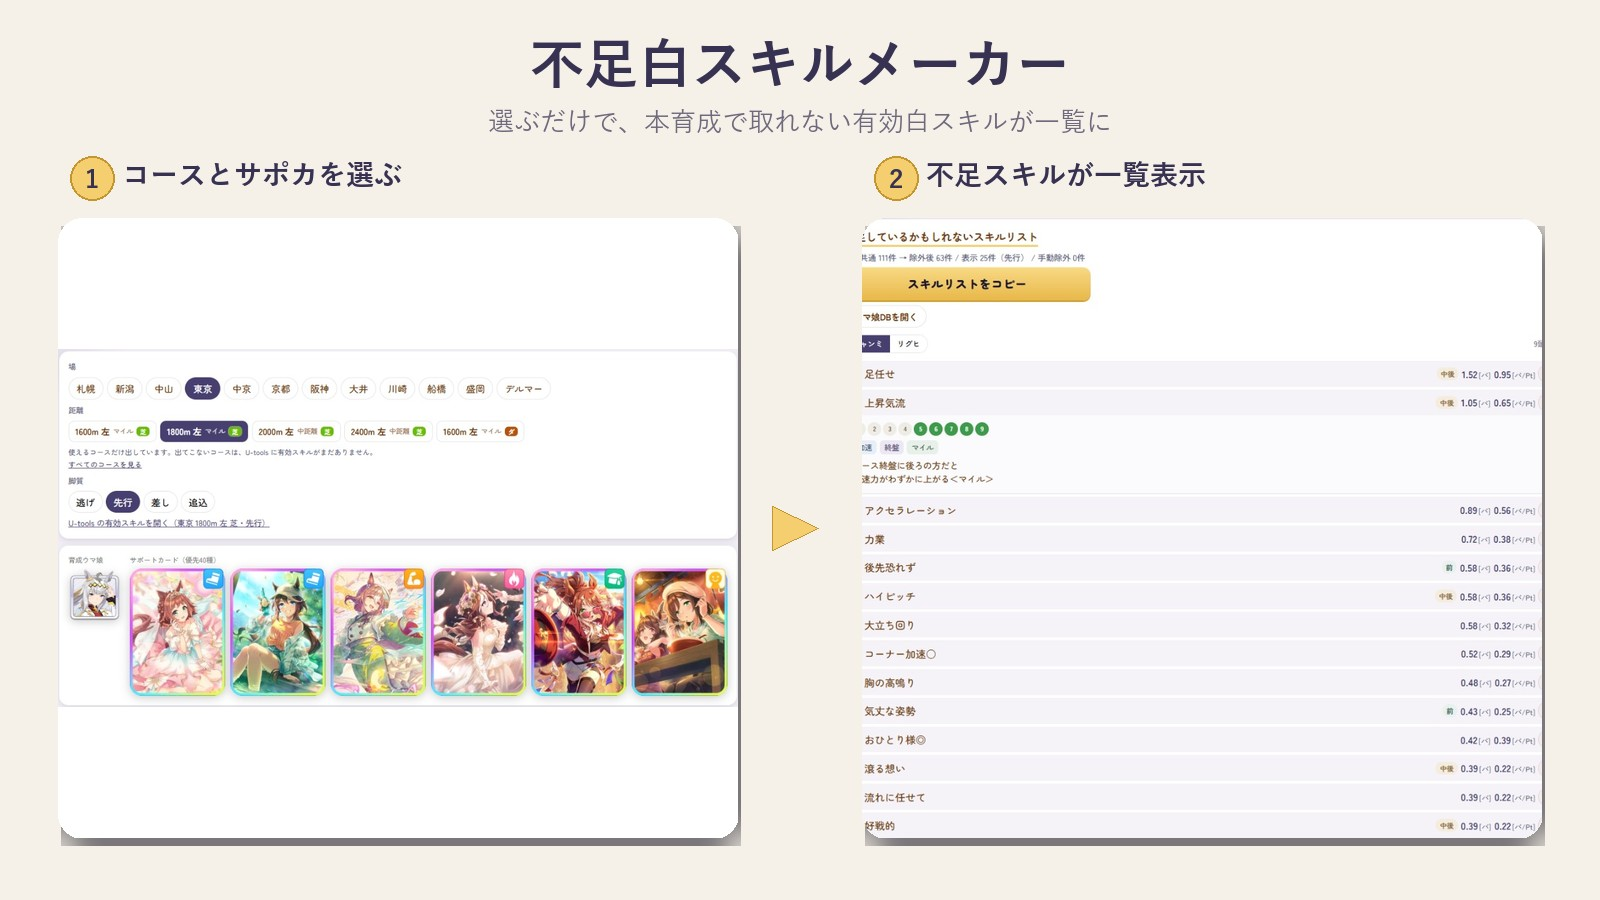
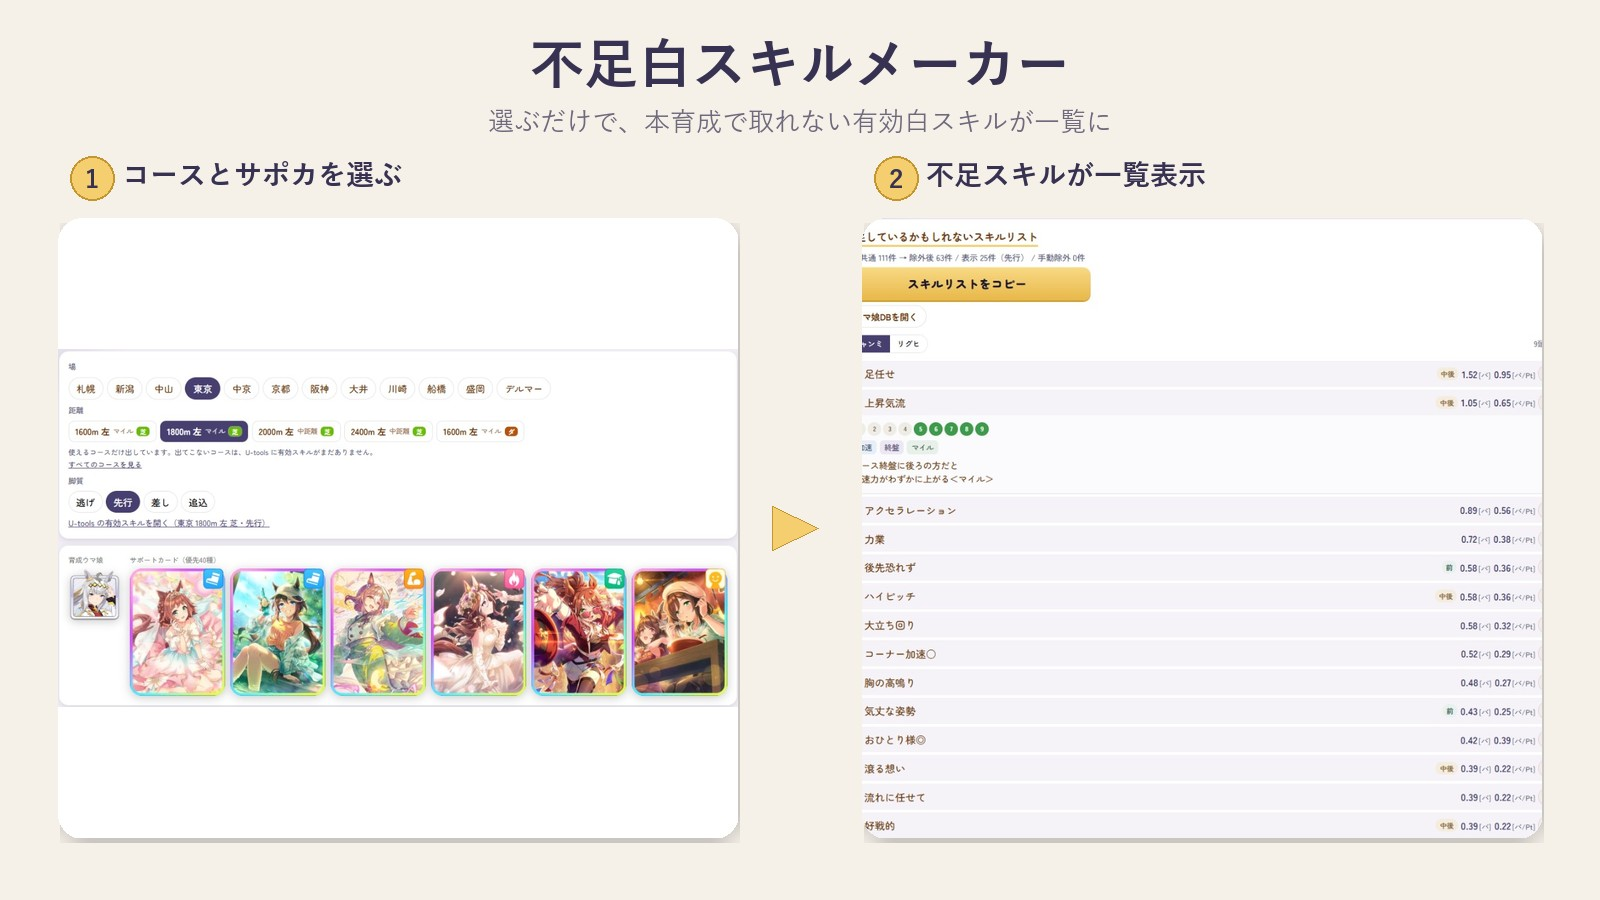
fix: 3x4投稿画像の角に残った影の切れ端を除く

Changed region(s): [[0.0312, 0.9022, 0.4688, 0.9644], [0.5312, 0.9022, 0.9688, 0.9644]]

diff --git a/scripts/compose_x_promo.py b/scripts/compose_x_promo.py
@@ -40,8 +40,8 @@ def shadow_card(im, radius=28, pad=18, blur=12):
     canvas = Image.new("RGBA", (w + pad * 2, h + pad * 2), (0, 0, 0, 0))
     sh = Image.new("L", (w, h), 0)
     ImageDraw.Draw(sh).rounded_rectangle((0, 0, w - 1, h - 1), radius=radius, fill=140)
-    sh = sh.filter(ImageFilter.GaussianBlur(blur))
-    canvas.paste(Image.new("RGBA", (w, h), (*SHADOW, 255)), (pad + 3, pad + 8), sh)
+    sh = sh.filter(ImageFilter.GaussianBlur(8))
+    canvas.paste(Image.new("RGBA", (w, h), (*SHADOW, 90)), (pad + 2, pad + 5), sh)
     card = rounded(im, radius)
     canvas.paste(card, (pad, pad), card)
     return canvas
@@ -131,19 +131,29 @@ def scale_to_width(im, width):
     return im.resize((nw, nh), Image.Resampling.LANCZOS)
 
 
+def scale_to_fit(im, max_w, max_h):
+    """はみ出さないよう縦横比を保って縮小する。途中で切らない。"""
+    w, h = im.size
+    scale = min(max_w / w, max_h / h, 1.0)
+    nw = max(1, round(w * scale))
+    nh = max(1, round(h * scale))
+    if (nw, nh) == (w, h):
+        return im
+    return im.resize((nw, nh), Image.Resampling.LANCZOS)
+
+
 def crop_shot1_cards():
-    """コースパネルと編成パネルを別々に切り、隙間のページ余白を除く。"""
+    """コースパネルと編成パネルを別々に切り、元の外側の影が出ないよう内側で切る。"""
     im = Image.open(SHOT1).convert("RGB")
-    # ページ端と U-tools リンク行を落とし、中身だけ残す
-    course = im.crop((10, 8, 1014, 248))
-    deck = im.crop((10, 304, 1014, 528))
+    course = im.crop((16, 14, 1008, 244))
+    deck = im.crop((16, 314, 1008, 522))
     return course, deck
 
 
 def crop_shot2_panel():
-    """結果パネルの左右余白を切り、コピーボタン〜リスト先頭を残す。"""
+    """結果パネルを内側で切る。下端は行の途中ではなく区切りに合わせる。"""
     im = Image.open(SHOT2).convert("RGB")
-    return im.crop((10, 8, 1014, 508))
+    return im.crop((20, 14, 1004, 505))
 
 
 def compose_3x4():
@@ -185,9 +195,7 @@ def compose_3x4():
     y += 36
 
     remain = H - y - 18
-    result_scaled = scale_to_width(result, inner_w)
-    if result_scaled.size[1] > remain - 20:
-        result_scaled = result_scaled.crop((0, 0, inner_w, remain - 20))
+    result_scaled = scale_to_fit(result, inner_w, remain - 28)
     card2 = shadow_card(result_scaled, radius=22, pad=14, blur=10)
     canvas.paste(card2, ((W - card2.size[0]) // 2, y), card2)
     return canvas
